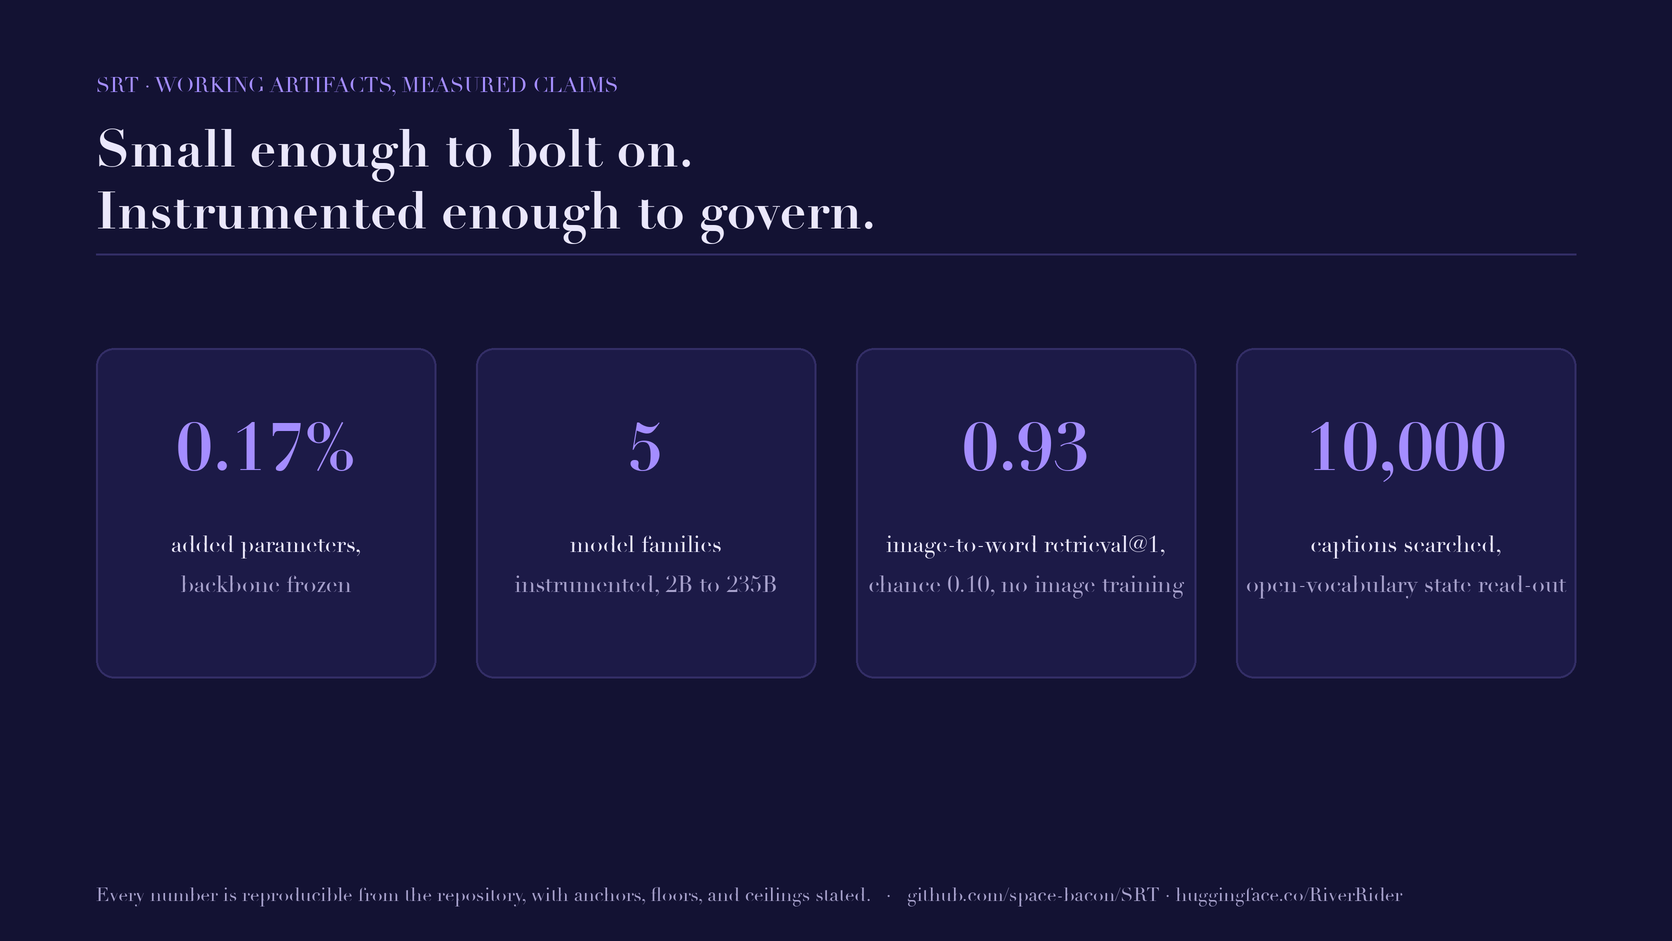
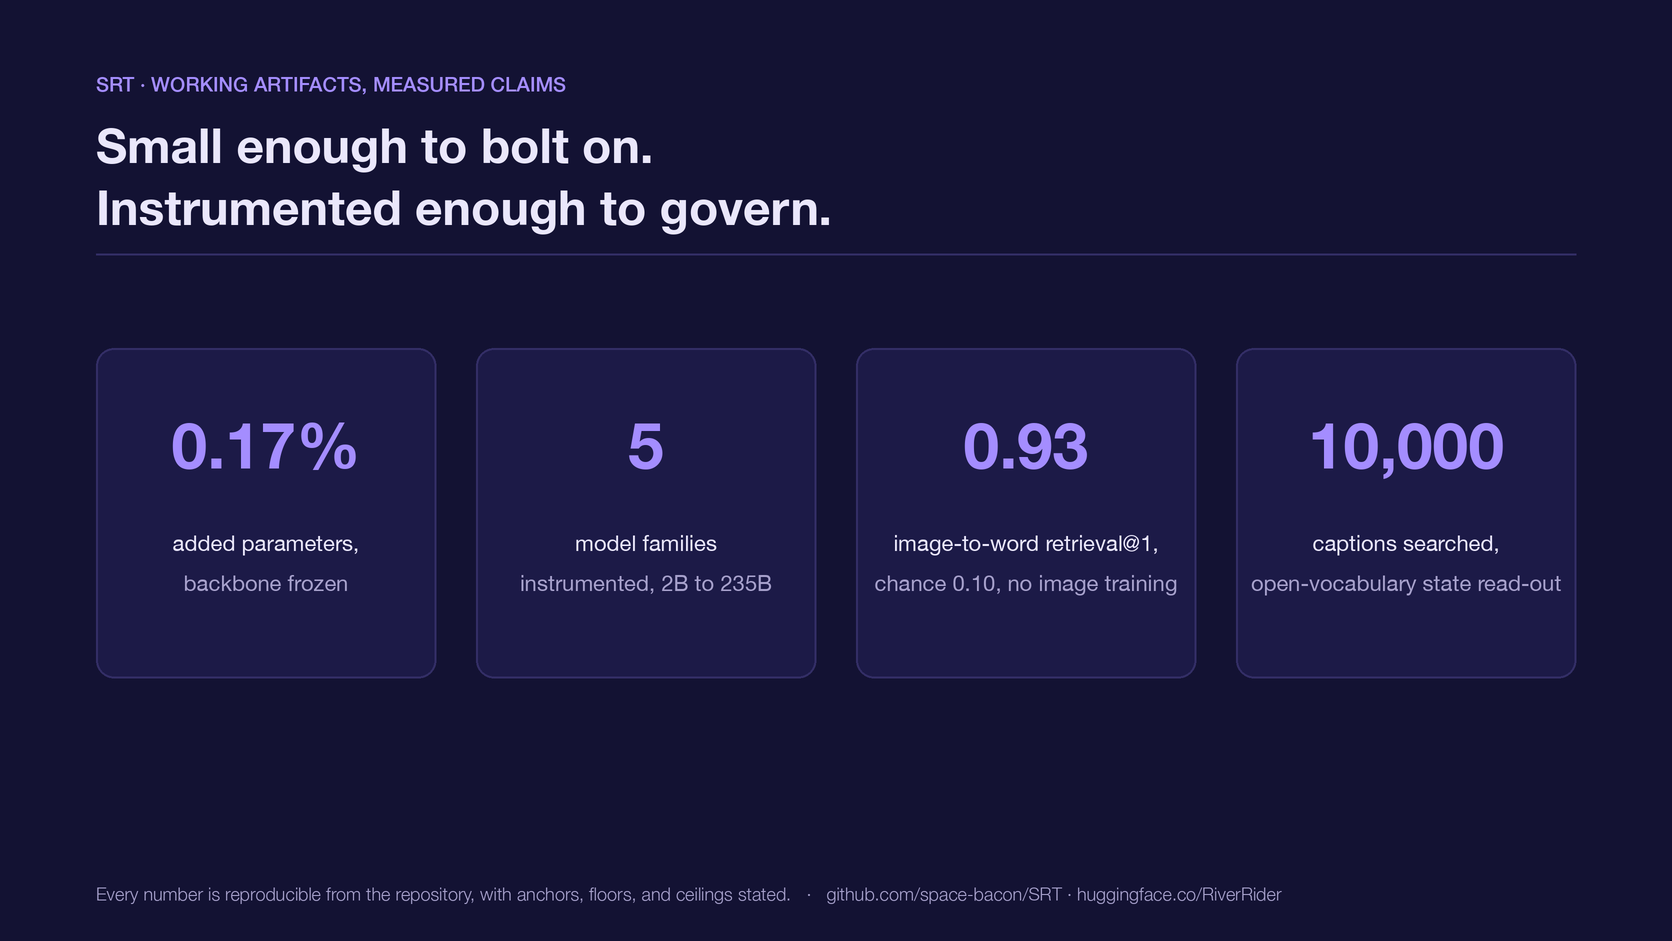
marketing exhibits: Didot reserved for the hero title card; Helvetica Neue for all exhibit body copy (legibility)

diff --git a/scripts/make_srt_marketing.py b/scripts/make_srt_marketing.py
@@ -26,11 +26,19 @@ WARN = "#ffb3c1"
 
 W, H, S = 1672, 941, 2  # output size, supersample factor
 DIDOT = "/System/Library/Fonts/Supplemental/Didot.ttc"
+SANS = "/System/Library/Fonts/HelveticaNeue.ttc"
 
 
 def F(size: int, face: str = "regular") -> ImageFont.FreeTypeFont:
+    """Didot: hero/title use only (hard to read at body sizes)."""
     idx = {"regular": 0, "italic": 1, "bold": 2}[face]
     return ImageFont.truetype(DIDOT, size * S, index=idx)
+
+
+def G(size: int, face: str = "regular") -> ImageFont.FreeTypeFont:
+    """Helvetica Neue for exhibit body copy."""
+    idx = {"regular": 0, "bold": 1, "italic": 2, "medium": 10, "light": 7}[face]
+    return ImageFont.truetype(SANS, size * S, index=idx)
 
 
 def canvas() -> tuple[Image.Image, ImageDraw.ImageDraw]:
@@ -47,10 +55,10 @@ def kicker_block(d: ImageDraw.ImageDraw, kicker: str, headline: list[str],
                  y0: int = 72) -> int:
     """Standard exhibit header. Returns y below the rule."""
     x = 96 * S
-    d.text((x, y0 * S), kicker.upper(), font=F(21), fill=VIOLET)
+    d.text((x, y0 * S), kicker.upper(), font=G(20, "medium"), fill=VIOLET)
     y = y0 + 44
     for ln in headline:
-        d.text((x, y * S), ln, font=F(52, "bold"), fill=INK)
+        d.text((x, y * S), ln, font=G(48, "bold"), fill=INK)
         y += 62
     y += 14
     d.line([(x, y * S), ((W - 96) * S, y * S)], fill=LINE, width=2 * S)
@@ -58,7 +66,7 @@ def kicker_block(d: ImageDraw.ImageDraw, kicker: str, headline: list[str],
 
 
 def footer(d: ImageDraw.ImageDraw, text: str) -> None:
-    d.text((96 * S, (H - 58) * S), text, font=F(19), fill=MUTED)
+    d.text((96 * S, (H - 58) * S), text, font=G(18, "light"), fill=MUTED)
 
 
 def spark(d: ImageDraw.ImageDraw, pts: list[float], box: tuple[int, int, int, int],
@@ -133,18 +141,18 @@ def instruments(out: str) -> None:
     for i, (a, asub, b, bsub) in enumerate(rows):
         ry = y + 26 + i * (row_h + gap)
         rounded(d, (col1_x, ry, col1_x + col_w, ry + row_h), PANEL)
-        d.text(((col1_x + 34) * S, (ry + 20) * S), a, font=F(30, "bold"), fill=INK)
-        d.text(((col1_x + 34) * S, (ry + 66) * S), asub, font=F(22), fill=MUTED)
+        d.text(((col1_x + 34) * S, (ry + 20) * S), a, font=G(28, "bold"), fill=INK)
+        d.text(((col1_x + 34) * S, (ry + 66) * S), asub, font=G(21), fill=MUTED)
         rounded(d, (col2_x, ry, col2_x + col_w - 24, ry + row_h), PANEL2, outline=VIOLET)
-        d.text(((col2_x + 34) * S, (ry + 20) * S), b, font=F(30, "bold"), fill=VIOLET)
-        d.text(((col2_x + 34) * S, (ry + 66) * S), bsub, font=F(22), fill="#cfc8f0")
+        d.text(((col2_x + 34) * S, (ry + 20) * S), b, font=G(28, "bold"), fill=VIOLET)
+        d.text(((col2_x + 34) * S, (ry + 66) * S), bsub, font=G(21), fill="#cfc8f0")
         ay = ry + row_h // 2
         d.line([((col1_x + col_w + 18) * S, ay * S), ((col2_x - 18) * S, ay * S)],
                fill=LINE, width=3 * S)
         d.polygon([((col2_x - 18) * S, (ay - 7) * S), ((col2_x - 18) * S, (ay + 7) * S),
                    ((col2_x - 4) * S, ay * S)], fill=VIOLET)
-    d.text((col1_x * S, (y - 4) * S), "THE COCKPIT", font=F(20), fill=MUTED)
-    d.text((col2_x * S, (y - 4) * S), "THE MODEL, WITH SRT", font=F(20), fill=VIOLET)
+    d.text((col1_x * S, (y - 4) * S), "THE COCKPIT", font=G(19, "medium"), fill=MUTED)
+    d.text((col2_x * S, (y - 4) * S), "THE MODEL, WITH SRT", font=G(19, "medium"), fill=VIOLET)
     footer(d, "SRT adds \u22480.17% parameters to a frozen model. The backbone is never retrained.   \u00b7   github.com/space-bacon/SRT")
     save(im, out)
 
@@ -177,14 +185,14 @@ def dangerous(out: str) -> None:
     d.ellipse([(sx - r) * S, (sy_ - r) * S, (sx + r) * S, (sy_ + r) * S],
               outline=WARN, width=3 * S)
     d.text(((sx + 28) * S, (sy_ - 12) * S), "regime shift detected",
-           font=F(26, "bold"), fill=WARN)
+           font=G(25, "bold"), fill=WARN)
     # annotate output-normal region
     d.text(((box[0] + 44) * S, (box[3] + 4) * S),
-           "output looks normal", font=F(22, "italic"), fill=MUTED)
+           "output looks normal", font=G(20, "italic"), fill=MUTED)
     d.text(((box[2] - 420) * S, (box[3] + 4) * S),
-           "output still looks normal", font=F(22, "italic"), fill=MUTED)
+           "output still looks normal", font=G(20, "italic"), fill=MUTED)
     d.text(((box[0] + 44) * S, (box[1] - 22) * S),
-           "per-token divergence, live during generation", font=F(21), fill=MUTED)
+           "per-token divergence, live during generation", font=G(20), fill=MUTED)
     footer(d, "\u201cThe most dangerous moment is when the system has quietly changed modes.\u201d  \u00b7  Signal shown: SRT divergence with regime annunciation")
     save(im, out)
 
@@ -208,9 +216,9 @@ def numbers(out: str) -> None:
     for i, (big, l1, l2) in enumerate(stats):
         cx = x0 + i * (card_w + gap)
         rounded(d, (cx, cy, cx + card_w, cy + card_h), PANEL)
-        ctext(d, cx + card_w // 2, cy + 58, big, F(66, "bold"), VIOLET)
-        ctext(d, cx + card_w // 2, cy + 182, l1, F(23), INK)
-        ctext(d, cx + card_w // 2, cy + 222, l2, F(23), MUTED)
+        ctext(d, cx + card_w // 2, cy + 58, big, G(64, "bold"), VIOLET)
+        ctext(d, cx + card_w // 2, cy + 182, l1, G(22), INK)
+        ctext(d, cx + card_w // 2, cy + 222, l2, G(22), MUTED)
     footer(d, "Every number is reproducible from the repository, with anchors, floors, and ceilings stated.   \u00b7   github.com/space-bacon/SRT \u00b7 huggingface.co/RiverRider")
     save(im, out)
 
